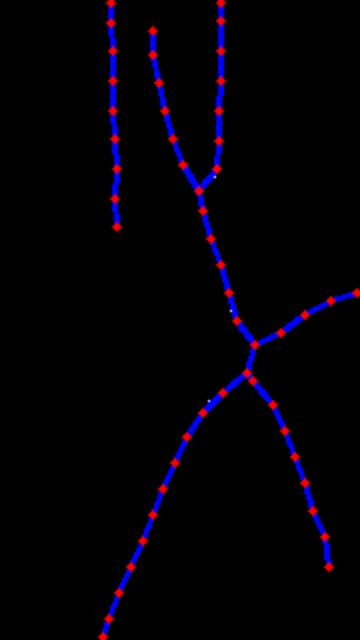
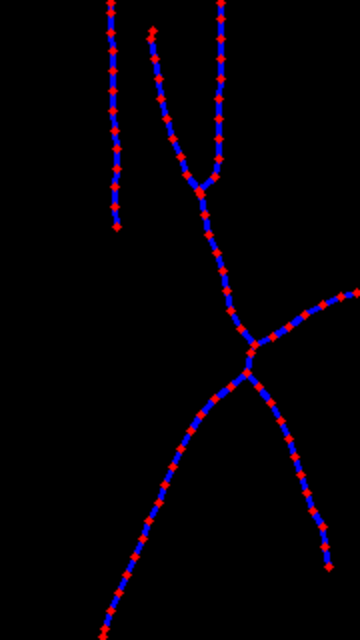
Update results

diff --git a/example/example.py b/example/example.py
@@ -94,7 +94,7 @@ def write_image(image, save_path, scale=1.0):
 
 skeleton = cv2.imread(f"{SCRIPT_DIR}/example/data/skeleton.png", cv2.IMREAD_ANYDEPTH)
 frame = SkeletonFrame(skeleton)
-s2g = Skeleton2Graph(simplification_threshold=15, directional_threshold=30)
+s2g = Skeleton2Graph(simplification_threshold=10, directional_threshold=30)
 
 start = time.time()
 s2g.set_frame(frame)
@@ -131,7 +131,7 @@ write_image(
 
 # Postprocessing result
 line_segments = s2g.get_linear_clusters()
-# show_image(
+#write_image(
 show_image(
     draw_line_segments(
         cv2.cvtColor(skeleton, cv2.COLOR_GRAY2BGR), line_segments, circle_diameter=3, edge_bold=3, with_end_point=True, with_fitted_line=True

diff --git a/include/connected_component.h b/include/connected_component.h
@@ -61,6 +61,7 @@ public:
         }
 
         m_graph_helper_ptr_->setConnectedComponentLabels(m_connected_component_list_);
+
     }
 
     std::vector<std::vector<Hash>> getConnectedComponent()

diff --git a/include/linear_cluster.h b/include/linear_cluster.h
@@ -16,7 +16,6 @@
 
 typedef Eigen::Matrix<float, 3, Eigen::Dynamic> Matrix2DPoints;
 
-// TODO: rename "m_node_list_"
 class LineCoeff
 {
 public:
